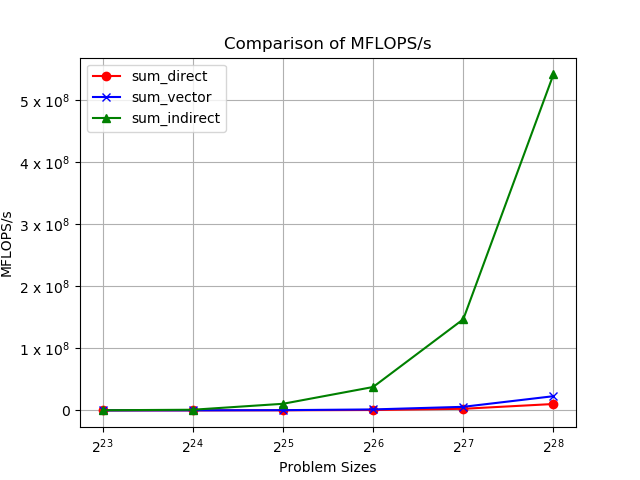
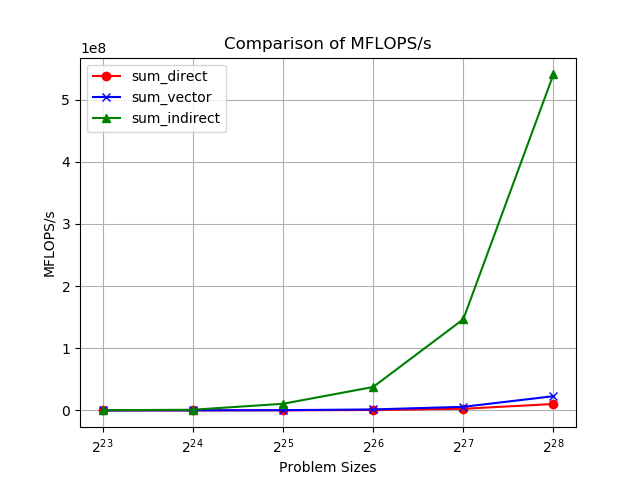
updated plot and formatting

diff --git a/plot_MFLOPS.py b/plot_MFLOPS.py
@@ -17,9 +17,7 @@ Assumptions: developed and tested using Python version 3.8.8 on macOS 11.6
 """
 
 import pandas as pd
-import numpy as np
 import matplotlib.pyplot as plt
-from matplotlib.ticker import FuncFormatter
 
 
 def compute_MFLOPs(data, ops):
@@ -29,15 +27,6 @@ def compute_MFLOPs(data, ops):
         data[i] = data[i] * nOps
 
     return data
-
-
-# chatGPT helped with formatting
-def scientific_notation_format(x, pos):
-    if x == 0:
-        return "0"
-    exponent = int(np.floor(np.log10(abs(x))))
-    base = x / 10**exponent
-    return f'{base:.0f} x 10$^{{{exponent}}}$'
 
 
 fname = "data_runtime.csv"
@@ -71,7 +60,6 @@ plt.plot(code3_MFLOPS, "g-^")
 xlocs = [i for i in range(len(problem_sizes))]
 plt.xticks(xlocs, labels=[f'$2^{{{x}}}$' for x in problem_sizes])
 
-plt.gca().yaxis.set_major_formatter(FuncFormatter(scientific_notation_format))
 
 #plt.xscale("log")
 #plt.yscale("log")

diff --git a/plot_bandwidth.py b/plot_bandwidth.py
@@ -17,10 +17,7 @@ Assumptions: developed and tested using Python version 3.8.8 on macOS 11.6
 """
 
 import pandas as pd
-import numpy as np
 import matplotlib.pyplot as plt
-from matplotlib.ticker import FuncFormatter
-
 
 def compute_bandwidth_usage(data, nBytes, capacity):
     

diff --git a/plot_latency.py b/plot_latency.py
@@ -17,9 +17,7 @@ Assumptions: developed and tested using Python version 3.8.8 on macOS 11.6
 """
 
 import pandas as pd
-import numpy as np
 import matplotlib.pyplot as plt
-from matplotlib.ticker import FuncFormatter
 
 
 def compute_latency(data, nAccesses):
